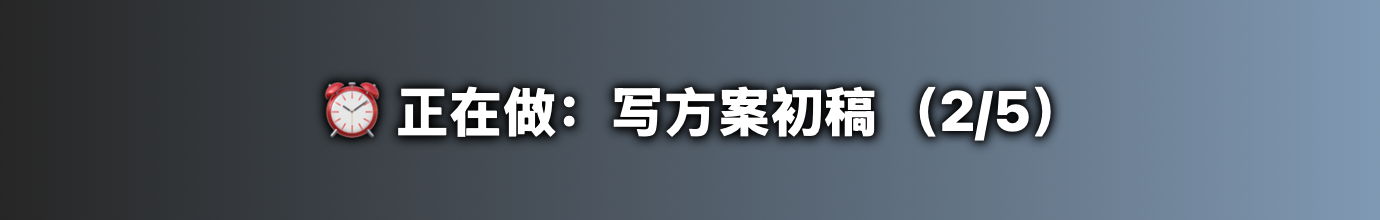
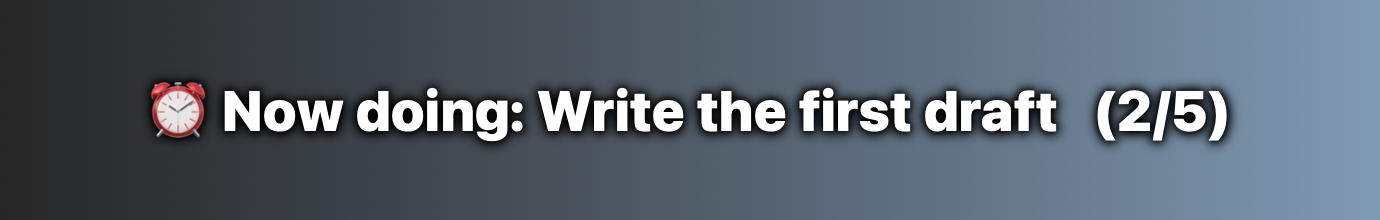
English interface with a language switch (中文 / English)
- tr(zh, en) helper; every menu item, overlay label, tooltip and reminder
  banner is available in both languages
- First launch follows the system language; menu bar "语言 / Language"
  switches instantly and is remembered
- Dates follow the language (2026.11.21 Sat / 周六); sample tasks too
- README screenshots in both languages

Changed region(s): [[0.0935, 0.3545, 0.9036, 0.6818]]

diff --git a/Sources/App.swift b/Sources/App.swift
@@ -44,7 +44,10 @@ final class AppDelegate: NSObject, NSApplicationDelegate, NSWindowDelegate, NSMe
 
     private func setupDayRollover() {
         store.onNewDay = { [weak self] carried in
-            self?.showDanmaku(carried > 0 ? "🌅 新的一天！带过来 \(carried) 项任务" : "🌅 新的一天！")
+            self?.showDanmaku(carried > 0
+                ? tr("🌅 新的一天！带过来 \(carried) 项任务",
+                     "🌅 A new day! \(carried) task\(carried == 1 ? "" : "s") carried over")
+                : tr("🌅 新的一天！", "🌅 A new day!"))
         }
         store.checkNewDay()   // 启动时（比如隔天才开电脑）
 
@@ -89,6 +92,7 @@ final class AppDelegate: NSObject, NSApplicationDelegate, NSWindowDelegate, NSMe
         // 内容变化时自动调整大小，保持左上角不动
         store.$tasks.map { _ in () }
             .merge(with: ui.$editing.map { _ in () })
+            .merge(with: ui.$lang.map { _ in () })
             .receive(on: RunLoop.main)
             .sink { [weak self] in DispatchQueue.main.async { self?.resizeToFit() } }
             .store(in: &cancellables)
@@ -161,24 +165,25 @@ final class AppDelegate: NSObject, NSApplicationDelegate, NSWindowDelegate, NSMe
     func menuNeedsUpdate(_ menu: NSMenu) {
         menu.removeAllItems()
 
-        let edit = NSMenuItem(title: ui.editing ? "完成编辑" : "编辑任务", action: #selector(toggleEdit), keyEquivalent: "p")
+        let edit = NSMenuItem(title: ui.editing ? tr("完成编辑", "Done Editing") : tr("编辑任务", "Edit Tasks"), action: #selector(toggleEdit), keyEquivalent: "p")
         edit.keyEquivalentModifierMask = [.command, .option]
         edit.target = self
         menu.addItem(edit)
 
-        let vis = NSMenuItem(title: panel.isVisible ? "隐藏悬浮层" : "显示悬浮层", action: #selector(toggleVisible), keyEquivalent: "")
+        let vis = NSMenuItem(title: panel.isVisible ? tr("隐藏悬浮层", "Hide Overlay") : tr("显示悬浮层", "Show Overlay"), action: #selector(toggleVisible), keyEquivalent: "")
         vis.target = self
         menu.addItem(vis)
 
-        let now = NSMenuItem(title: "立即弹一条提醒", action: #selector(fireReminder), keyEquivalent: "")
+        let now = NSMenuItem(title: tr("立即弹一条提醒", "Remind Me Now"), action: #selector(fireReminder), keyEquivalent: "")
         now.target = self
         menu.addItem(now)
 
         menu.addItem(.separator())
 
-        let remind = NSMenuItem(title: "定时提醒", action: nil, keyEquivalent: "")
+        let remind = NSMenuItem(title: tr("定时提醒", "Reminders"), action: nil, keyEquivalent: "")
         let rSub = NSMenu()
-        for (title, m) in [("关闭", 0), ("每 15 分钟", 15), ("每 30 分钟", 30), ("每 60 分钟", 60)] {
+        for (title, m) in [(tr("关闭", "Off"), 0), (tr("每 15 分钟", "Every 15 Minutes"), 15),
+                           (tr("每 30 分钟", "Every 30 Minutes"), 30), (tr("每 60 分钟", "Every 60 Minutes"), 60)] {
             let it = NSMenuItem(title: title, action: #selector(setReminder(_:)), keyEquivalent: "")
             it.target = self
             it.tag = m
@@ -198,10 +203,10 @@ final class AppDelegate: NSObject, NSApplicationDelegate, NSWindowDelegate, NSMe
         updateSliderLabels()
         menu.addItem(txItem)
 
-        let dayStart = NSMenuItem(title: "新的一天开始于", action: nil, keyEquivalent: "")
+        let dayStart = NSMenuItem(title: tr("新的一天开始于", "New Day Starts At"), action: nil, keyEquivalent: "")
         let dSub = NSMenu()
         for h in [0, 3, 4, 5, 6] {
-            let it = NSMenuItem(title: h == 0 ? "零点" : "凌晨 \(h) 点", action: #selector(setDayStart(_:)), keyEquivalent: "")
+            let it = NSMenuItem(title: h == 0 ? tr("零点", "Midnight") : tr("凌晨 \(h) 点", "\(h) AM"), action: #selector(setDayStart(_:)), keyEquivalent: "")
             it.target = self
             it.tag = h
             it.state = (h == DayClock.startHour) ? .on : .off
@@ -212,18 +217,35 @@ final class AppDelegate: NSObject, NSApplicationDelegate, NSWindowDelegate, NSMe
 
         menu.addItem(historyItem())
 
+        // 语言：标题两种语言都写，切错了也找得回来
+        let langItem = NSMenuItem(title: "语言 / Language", action: nil, keyEquivalent: "")
+        let lSub = NSMenu()
+        for (title, l) in [("中文", Lang.zh), ("English", Lang.en)] {
+            let it = NSMenuItem(title: title, action: #selector(setLanguage(_:)), keyEquivalent: "")
+            it.target = self
+            it.representedObject = l.rawValue
+            it.state = (ui.lang == l) ? .on : .off
+            lSub.addItem(it)
+        }
+        langItem.submenu = lSub
+        menu.addItem(langItem)
+
         menu.addItem(.separator())
-        let gh = NSMenuItem(title: "GitHub 主页 / 反馈问题", action: #selector(openRepo), keyEquivalent: "")
+        let gh = NSMenuItem(title: tr("GitHub 主页 / 反馈问题", "GitHub / Report an Issue"), action: #selector(openRepo), keyEquivalent: "")
         gh.target = self
         menu.addItem(gh)
 
         menu.addItem(.separator())
-        menu.addItem(NSMenuItem(title: "退出 FloatPlan", action: #selector(NSApplication.terminate(_:)), keyEquivalent: "q"))
+        menu.addItem(NSMenuItem(title: tr("退出 FloatPlan", "Quit FloatPlan"), action: #selector(NSApplication.terminate(_:)), keyEquivalent: "q"))
     }
 
     @objc private func setReminder(_ sender: NSMenuItem) { reminderMinutes = sender.tag }
 
     @objc private func openRepo() { if let u = URL(string: Links.repo) { NSWorkspace.shared.open(u) } }
+
+    @objc private func setLanguage(_ sender: NSMenuItem) {
+        if let raw = sender.representedObject as? String, let l = Lang(rawValue: raw) { ui.lang = l }
+    }
 
     @objc private func setDayStart(_ sender: NSMenuItem) {
         DayClock.startHour = sender.tag
@@ -232,14 +254,14 @@ final class AppDelegate: NSObject, NSApplicationDelegate, NSWindowDelegate, NSMe
 
     /// 历史记录：最近 14 天，每天一个子菜单列出当天的任务
     private func historyItem() -> NSMenuItem {
-        let item = NSMenuItem(title: "历史记录", action: nil, keyEquivalent: "")
+        let item = NSMenuItem(title: tr("历史记录", "History"), action: nil, keyEquivalent: "")
         let sub = NSMenu()
         if store.history.isEmpty {
-            sub.addItem(NSMenuItem(title: "还没有历史记录（明天开始会有）", action: nil, keyEquivalent: ""))
+            sub.addItem(NSMenuItem(title: tr("还没有历史记录（明天开始会有）", "No history yet (starts tomorrow)"), action: nil, keyEquivalent: ""))
         }
         for d in store.history.prefix(14) {
             let dayItem = NSMenuItem(
-                title: "\(DayClock.display(d.date, short: true))    完成 \(d.doneCount)/\(d.tasks.count)",
+                title: "\(DayClock.display(d.date, short: true))    \(tr("完成", "done")) \(d.doneCount)/\(d.tasks.count)",
                 action: nil, keyEquivalent: "")
             let tasksMenu = NSMenu()
             for t in d.tasks {
@@ -274,8 +296,8 @@ final class AppDelegate: NSObject, NSApplicationDelegate, NSWindowDelegate, NSMe
     }
 
     private func updateSliderLabels() {
-        bgSliderLabel?.stringValue = "背景浓度  \(Int((ui.bgOpacity * 100).rounded()))%"
-        textSliderLabel?.stringValue = "文字浓度  \(Int((ui.textOpacity * 100).rounded()))%"
+        bgSliderLabel?.stringValue = "\(tr("背景浓度", "Background"))  \(Int((ui.bgOpacity * 100).rounded()))%"
+        textSliderLabel?.stringValue = "\(tr("文字浓度", "Text"))  \(Int((ui.textOpacity * 100).rounded()))%"
     }
 
     @objc private func bgSliderChanged(_ s: NSSlider) {
@@ -302,11 +324,13 @@ final class AppDelegate: NSObject, NSApplicationDelegate, NSWindowDelegate, NSMe
 
     @objc func fireReminder() {
         guard let task = store.currentTask else {
-            showDanmaku("🎉 今天的任务全部完成了！")
+            showDanmaku(tr("🎉 今天的任务全部完成了！", "🎉 All done for today!"))
             return
         }
-        let prefix = task.status == .doing ? "⏰ 正在做" : "⏰ 该开始"
-        showDanmaku("\(prefix)：\(task.title)   （\(store.doneCount)/\(store.tasks.count)）")
+        let prefix = task.status == .doing ? tr("⏰ 正在做", "⏰ Now doing") : tr("⏰ 该开始", "⏰ Up next")
+        let progress = "\(store.doneCount)/\(store.tasks.count)"
+        showDanmaku(tr("\(prefix)：\(task.title)   （\(progress)）",
+                       "\(prefix): \(task.title)   (\(progress))"))
 
         let content = UNMutableNotificationContent()
         content.title = prefix

diff --git a/Sources/OverlayView.swift b/Sources/OverlayView.swift
@@ -49,12 +49,12 @@ struct OverlayView: View {
     @ViewBuilder private var header: some View {
         if ui.editing {
             HStack {
-                Text("⠿ \(DayClock.display(store.day))  ·  拖动移动位置")
+                Text("⠿ \(DayClock.display(store.day))  ·  \(tr("拖动移动位置", "drag to move"))")
                     .font(.system(size: 11))
                     .foregroundColor(.secondary)
                     .frame(maxWidth: .infinity, alignment: .leading)
                     .overlay(DragHandle())
-                Button("完成") { ui.toggleEdit() }
+                Button(tr("完成", "Done")) { ui.toggleEdit() }
                     .keyboardShortcut(.defaultAction)
             }
         } else {
@@ -102,9 +102,9 @@ struct OverlayView: View {
                     .contentShape(Rectangle())
             }
             .buttonStyle(.plain)
-            .help("点击切换：未开始 → 进行中 → 已完成")
+            .help(tr("点击切换：未开始 → 进行中 → 已完成", "Click to change: to do → in progress → done"))
 
-            TextField("任务", text: titleBinding(task.id))
+            TextField(tr("任务", "Task"), text: titleBinding(task.id))
                 .textFieldStyle(.plain)
                 .font(.system(size: 14, weight: task.status == .doing ? .bold : .regular))
                 .foregroundColor(statusColor(task.status))
@@ -115,7 +115,9 @@ struct OverlayView: View {
                     .foregroundColor(task.repeatDaily ? statusColor(.todo) : Color.gray.opacity(0.35))
             }
             .buttonStyle(.plain)
-            .help(task.repeatDaily ? "每日重复：已开启" : "设为每日重复（每天自动出现）")
+            .help(task.repeatDaily
+                  ? tr("每日重复：已开启", "Repeats daily: on")
+                  : tr("设为每日重复（每天自动出现）", "Repeat daily (shows up every day)"))
 
             iconButton("chevron.up") { store.move(task.id, by: -1) }
             iconButton("chevron.down") { store.move(task.id, by: 1) }
@@ -127,7 +129,7 @@ struct OverlayView: View {
         HStack(spacing: 6) {
             Text("+").font(.system(size: 14, weight: .bold))
                 .foregroundColor(.secondary).frame(width: 18)
-            TextField("添加任务，回车确认", text: $newTitle)
+            TextField(tr("添加任务，回车确认", "Add a task, press Return"), text: $newTitle)
                 .textFieldStyle(.plain)
                 .font(.system(size: 14))
                 .onSubmit {
@@ -139,7 +141,8 @@ struct OverlayView: View {
     }
 
     private var hint: some View {
-        Text("⌥⌘P 退出编辑 · 点左侧图标切换状态 · 🔁 每日重复")
+        Text(tr("⌥⌘P 退出编辑 · 点左侧图标切换状态 · 🔁 每日重复",
+                "⌥⌘P to finish · click the left icon to change state · 🔁 repeat daily"))
             .font(.system(size: 10))
             .foregroundColor(.secondary)
             .padding(.top, 2)

diff --git a/Sources/Model.swift b/Sources/Model.swift
@@ -68,11 +68,11 @@ enum DayClock {
         return keyFormatter.string(from: date.addingTimeInterval(TimeInterval(-startHour * 3600)))
     }
 
-    /// 2026.11.20 周五 / 11.20 周五
+    /// 2026.11.20 周五 / 11.20 周五（英文：2026.11.20 Fri）
     static func display(_ key: String, short: Bool = false) -> String {
         guard let d = keyFormatter.date(from: key) else { return key }
         let f = DateFormatter()
-        f.locale = Locale(identifier: "zh_CN")
+        f.locale = Locale(identifier: L10n.lang == .zh ? "zh_CN" : "en_US")
         f.dateFormat = short ? "M.d EEE" : "yyyy.MM.dd EEE"
         return f.string(from: d)
     }
@@ -127,12 +127,13 @@ final class TaskStore: ObservableObject {
             tasks = old
         } else {
             day = DayClock.key()
+            // 第一次打开时的示例任务，按当时的语言
             tasks = [
-                PlanTask(title: "回复邮件", status: .done),
-                PlanTask(title: "整理会议纪要", status: .done),
-                PlanTask(title: "写方案初稿", status: .doing),
-                PlanTask(title: "跑步 30 分钟", repeatDaily: true),
-                PlanTask(title: "读书 20 页", repeatDaily: true),
+                PlanTask(title: tr("回复邮件", "Reply to emails"), status: .done),
+                PlanTask(title: tr("整理会议纪要", "Tidy up meeting notes"), status: .done),
+                PlanTask(title: tr("写方案初稿", "Write the first draft"), status: .doing),
+                PlanTask(title: tr("跑步 30 分钟", "Run for 30 minutes"), repeatDaily: true),
+                PlanTask(title: tr("读书 20 页", "Read 20 pages"), repeatDaily: true),
             ]
         }
         save()
@@ -212,6 +213,10 @@ final class TaskStore: ObservableObject {
 /// 界面状态 + 偏好设置
 final class UIState: ObservableObject {
     @Published var editing = false
+    /// 界面语言，切换时界面自动刷新
+    @Published var lang: Lang = L10n.lang {
+        didSet { L10n.lang = lang }
+    }
     @Published var bgOpacity: Double {
         didSet { UserDefaults.standard.set(bgOpacity, forKey: "bgOpacity") }
     }

diff --git a/Sources/L10n.swift b/Sources/L10n.swift
@@ -1,0 +1,24 @@
+import Foundation
+
+/// 界面语言。目前只有中文和英文两种
+enum Lang: String {
+    case zh, en
+}
+
+enum L10n {
+    /// 当前语言。第一次打开时跟随系统（系统是中文就用中文，否则英文），之后以菜单里的选择为准
+    static var lang: Lang {
+        get {
+            if let raw = UserDefaults.standard.string(forKey: "language"), let l = Lang(rawValue: raw) {
+                return l
+            }
+            return Locale.preferredLanguages.first?.hasPrefix("zh") == true ? .zh : .en
+        }
+        set { UserDefaults.standard.set(newValue.rawValue, forKey: "language") }
+    }
+}
+
+/// 两种语言写在一起，按当前语言取一个：tr("编辑任务", "Edit Tasks")
+func tr(_ zh: String, _ en: String) -> String {
+    L10n.lang == .zh ? zh : en
+}

diff --git a/README.md b/README.md
@@ -6,8 +6,6 @@
 
 ![FloatPlan preview: default style on the left, transparent background with 60% text on the right](docs/preview.png)
 
-> The interface is currently in Chinese. The screenshots and the table below explain every control.
-
 ## Why
 
 Most floating sticky notes and to-do apps are just **regular always-on-top windows**. They cover what's underneath, you click them by accident, and they only know "done" or "not done", so you can't tell at a glance what you should be doing right now.
@@ -20,7 +18,7 @@ FloatPlan keeps today's plan in view but **out of your way**: your mouse clicks 
   - ✓ Done: gray, struck through
   - ▶ In progress: bold black
   - ○ To do: blue
-- **One list per day.** The header shows the date (e.g. `2026.11.20 周五 · 2/5`), and a new list starts automatically when the day changes:
+- **One list per day.** The header shows the date (e.g. `2026.11.20 Fri · 2/5`), and a new list starts automatically when the day changes:
   - Unfinished tasks carry over to the new day; finished ones go to history.
   - Tasks marked 🔁 **repeat daily** (exercise, reading…) come back every day, reset to to-do.
   - Choose when a new day starts (midnight or 3–6 AM), so the list doesn't flip while you're still up.
@@ -29,6 +27,7 @@ FloatPlan keeps today's plan in view but **out of your way**: your mouse clicks 
 - **Visible everywhere.** It shows on every desktop (Space) and over full-screen apps.
 - **Edit with a shortcut.** Press `⌥⌘P` to edit, press it again to go back to click-through mode.
 - **Opacity sliders.** Adjust the background and the text separately, with a live preview.
+- **English and Chinese.** Follows your system language on first launch; switch any time from the menu bar.
 - **Reminders.** Every 15, 30 or 60 minutes, the current task drifts across the screen in large text, together with a system notification.
 
 ![Reminder banner](docs/danmaku.png)
@@ -50,16 +49,17 @@ Requires macOS 13 or later. Runs natively on Apple silicon and Intel.
 
 | What | How |
 |---|---|
-| Enter / leave edit mode | `⌥⌘P`, or menu bar ☑ → 编辑任务 (Edit tasks) |
+| Enter / leave edit mode | `⌥⌘P`, or menu bar ☑ → Edit Tasks |
 | Change a task's state | In edit mode, click the icon on the left: to do → in progress → done |
 | Repeat a task daily | In edit mode, click 🔁 on the right of the task |
 | Add a task | In edit mode, type in the last row and press Return |
 | Reorder / delete | In edit mode, click ↑ ↓ ✕ |
 | Move the overlay | In edit mode, drag the top row |
-| Adjust opacity | Menu bar ☑ → 背景浓度 (background) / 文字浓度 (text) sliders |
-| Reminders | Menu bar ☑ → 定时提醒 (Reminders) |
-| When a new day starts | Menu bar ☑ → 新的一天开始于 (New day starts at) |
-| Past days | Menu bar ☑ → 历史记录 (History) |
+| Adjust opacity | Menu bar ☑ → Background / Text sliders |
+| Reminders | Menu bar ☑ → Reminders |
+| When a new day starts | Menu bar ☑ → New Day Starts At |
+| Past days | Menu bar ☑ → History |
+| Language | Menu bar ☑ → 语言 / Language → 中文 or English |
 
 > On a MacBook with a notch, the ☑ icon can end up hidden behind the notch when the menu bar is crowded. `⌥⌘P` works either way.
 
@@ -86,7 +86,7 @@ cd FloatPlan && ./build.sh && open build/FloatPlan.app
 ## Roadmap
 
 - [x] Daily plans and repeating tasks
-- [ ] English interface
+- [x] English interface
 - [ ] Multiple lists
 - [ ] Custom colors and font size
 - [ ] Launch at login
